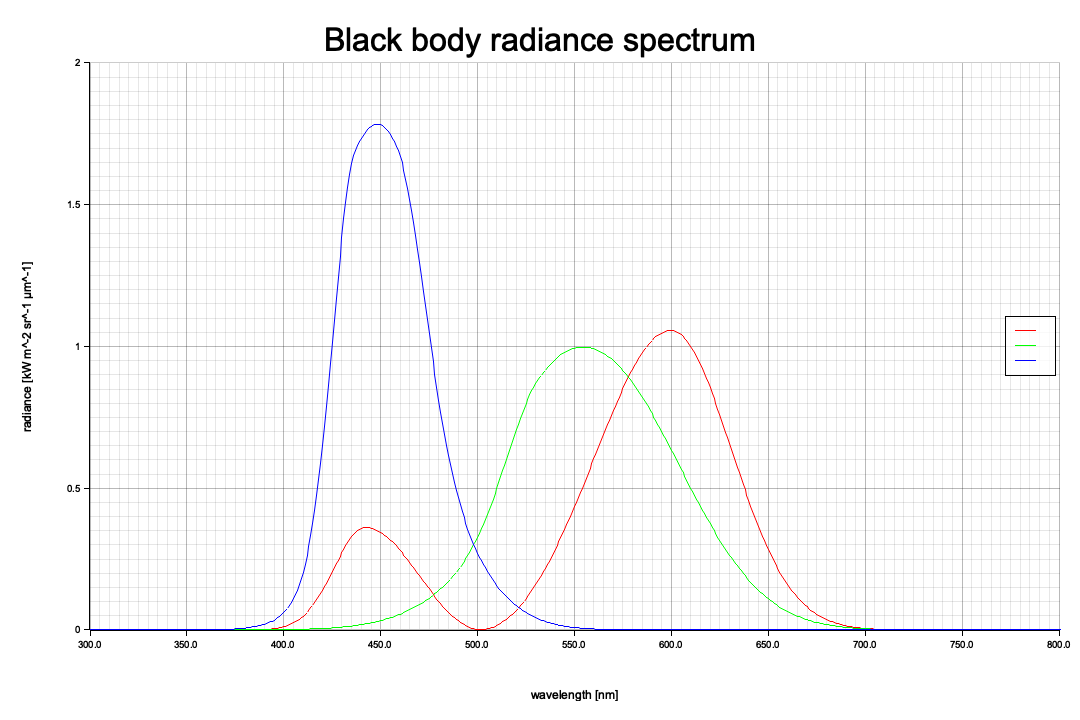
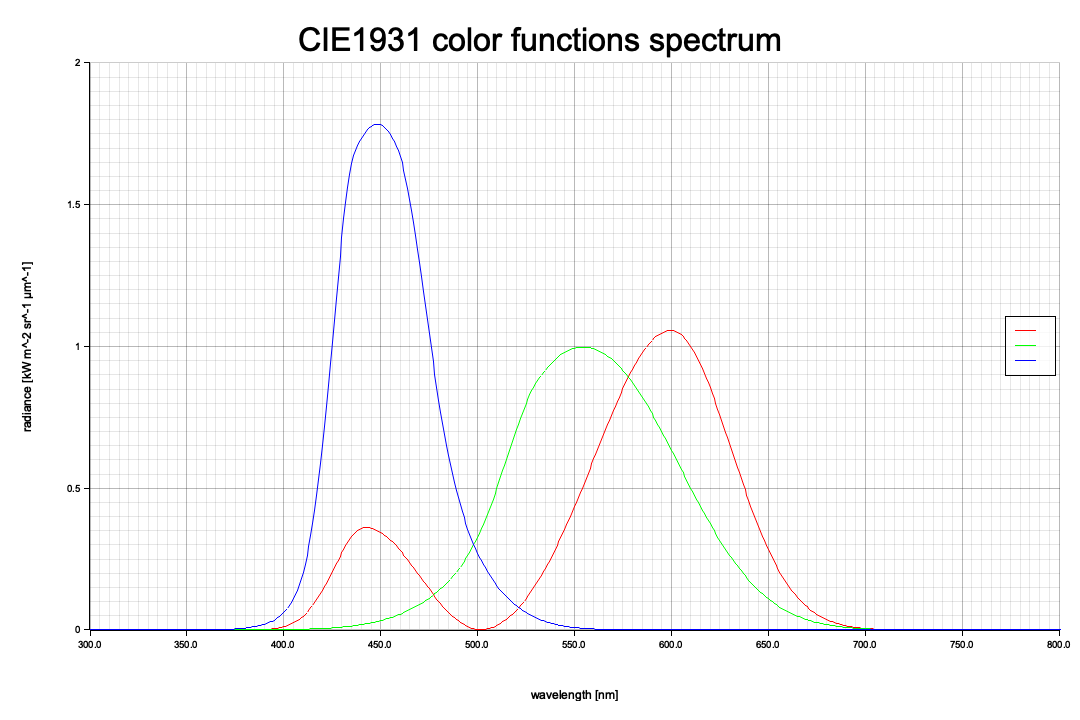
fix figure title

Changed region(s): [[0.275, 0.0306, 0.7333, 0.0917]]

diff --git a/black-body/src/lib.rs b/black-body/src/lib.rs
@@ -22,9 +22,6 @@
 //! println!("body color: {:?}", body.color_for_eye());
 //! ```
 pub mod spectrum;
-
-use std::f64::consts::E;
-
 use spectrum::Spectrum;
 
 // physical constants
@@ -53,7 +50,7 @@ impl BlackBody {
         let l = wavelength;
         let t = self.temperature;
         let first = 2.0 * H * C.powf(2.0) / l.powf(5.0);
-        let second = 1.0 / (E.powf((H * C) / (l * K * t)) - 1.0);
+        let second = 1.0 / (((H * C) / (l * K * t)).exp() - 1.0);
         return first * second;
     }
 

diff --git a/black-body/src/bin/cie1931_spectrum.rs b/black-body/src/bin/cie1931_spectrum.rs
@@ -19,7 +19,7 @@ fn main() -> Result<(), Box<dyn std::error::Error>> {
     let root = BitMapBackend::new(output_path, (width, height)).into_drawing_area();
     root.fill(&WHITE)?;
     let mut chart = ChartBuilder::on(&root)
-        .caption("Black body radiance spectrum", ("sans-serif", 40))
+        .caption("CIE1931 color functions spectrum", ("sans-serif", 40))
         .margin(20)
         .x_label_area_size(70)
         .y_label_area_size(70)
